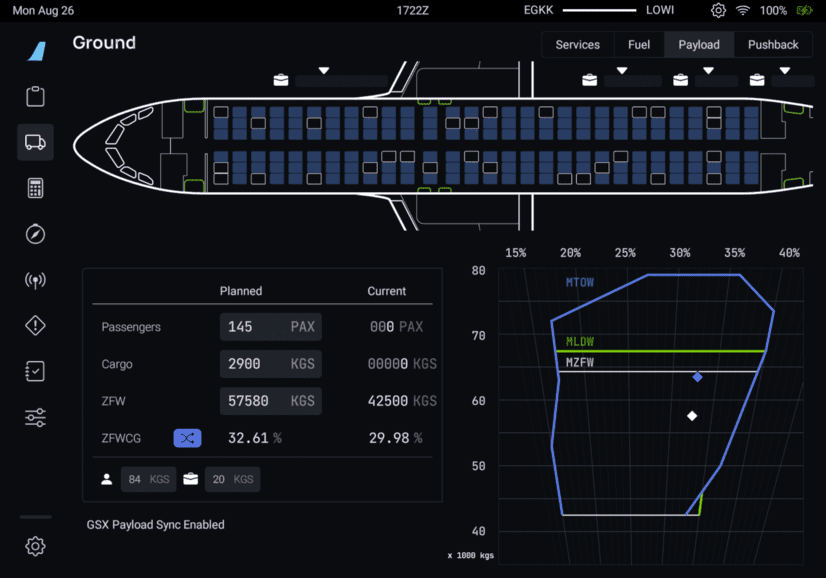
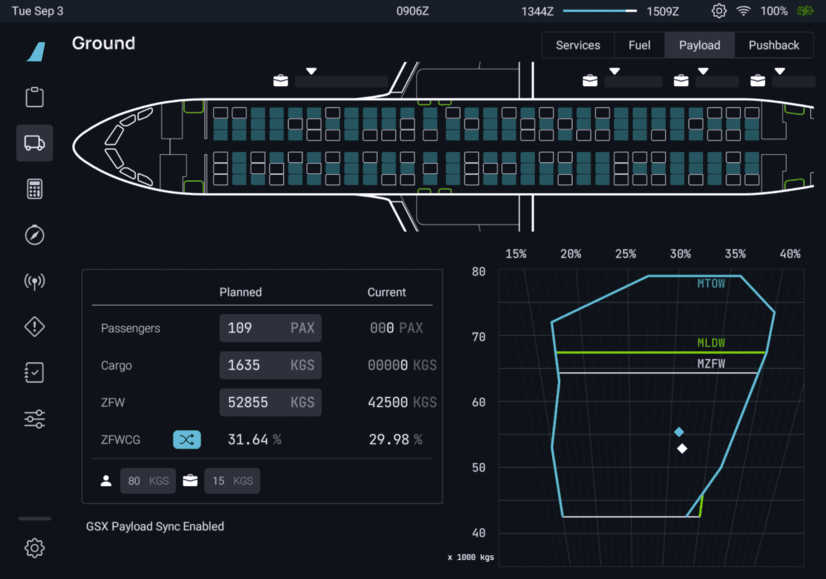
Changed images to match default EFB theme, updated images for better compression/quality

diff --git a/docs/fbw-a32nx/feature-guides/gsxintegration/index.md b/docs/fbw-a32nx/feature-guides/gsxintegration/index.md
@@ -32,7 +32,7 @@ This documentation takes you through all pages and functions of GSX Integration.
 
 [//]: # (TODO need to add a picture here)
 
-![GSX Flypad](../../assets/gsxintegration/gsx-hero.png "GSX Settings")
+![GSX Intergration](../../assets/gsxintegration/gsx-hero.jpg "GSX Refuelling the FBW")
 
 ## General Usage
 
